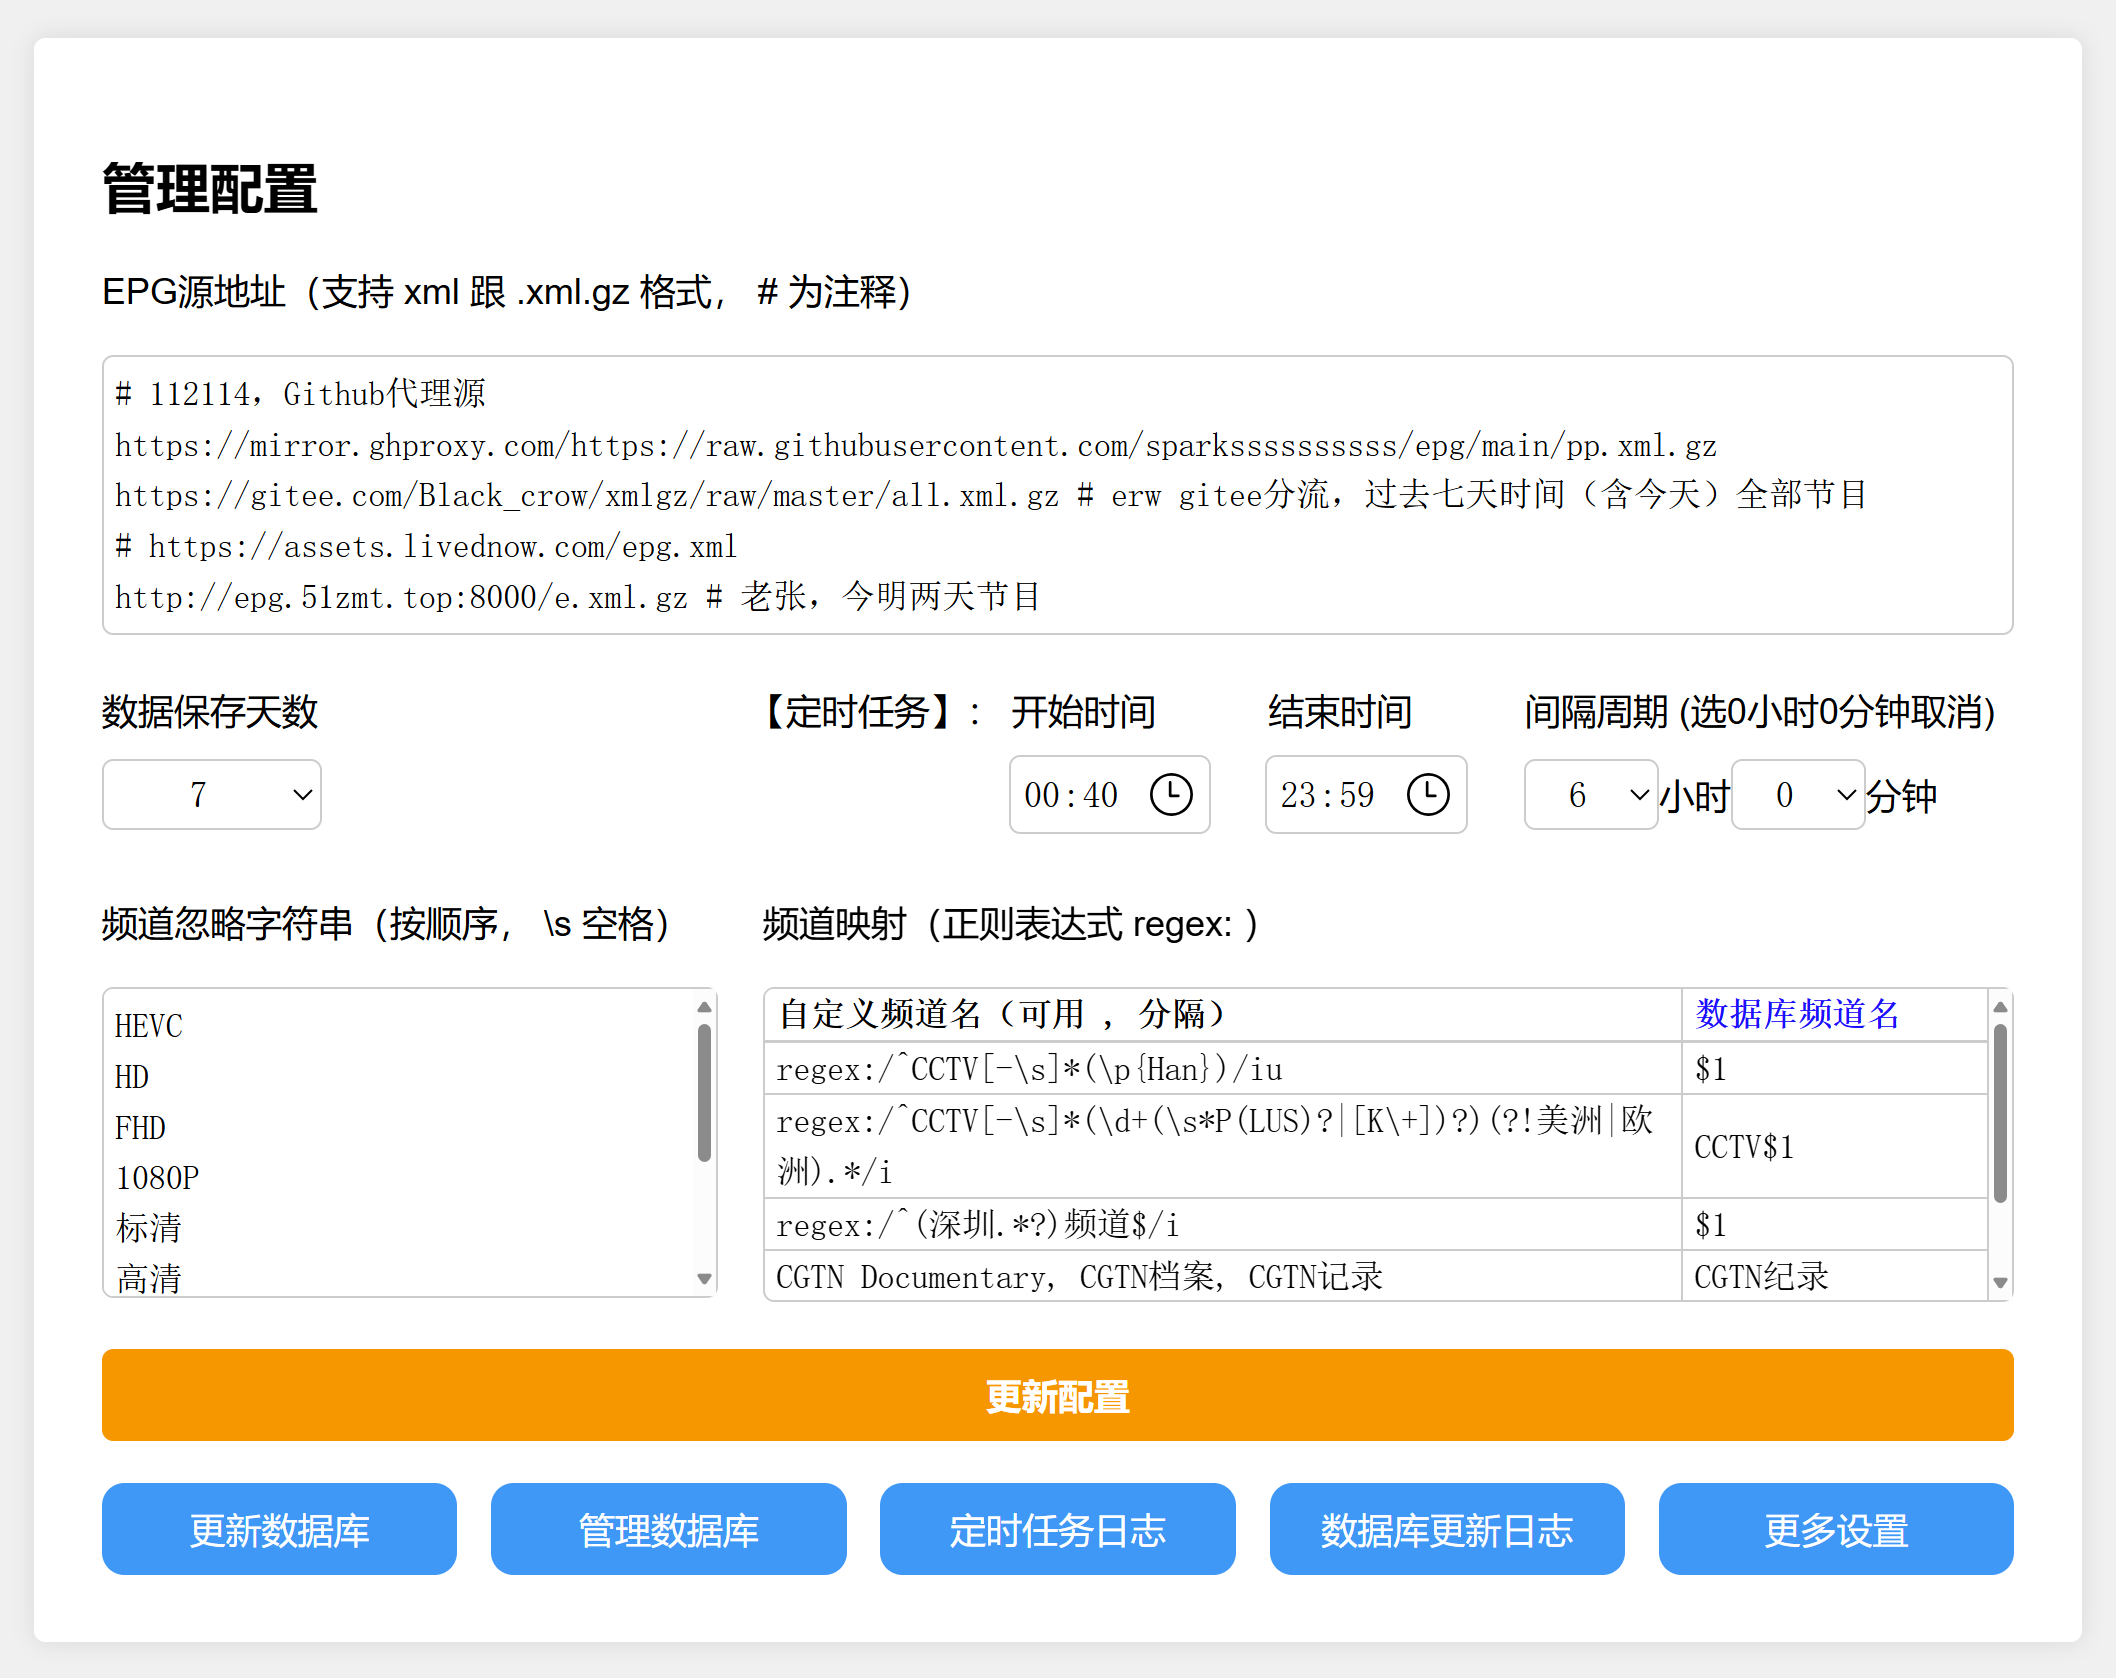
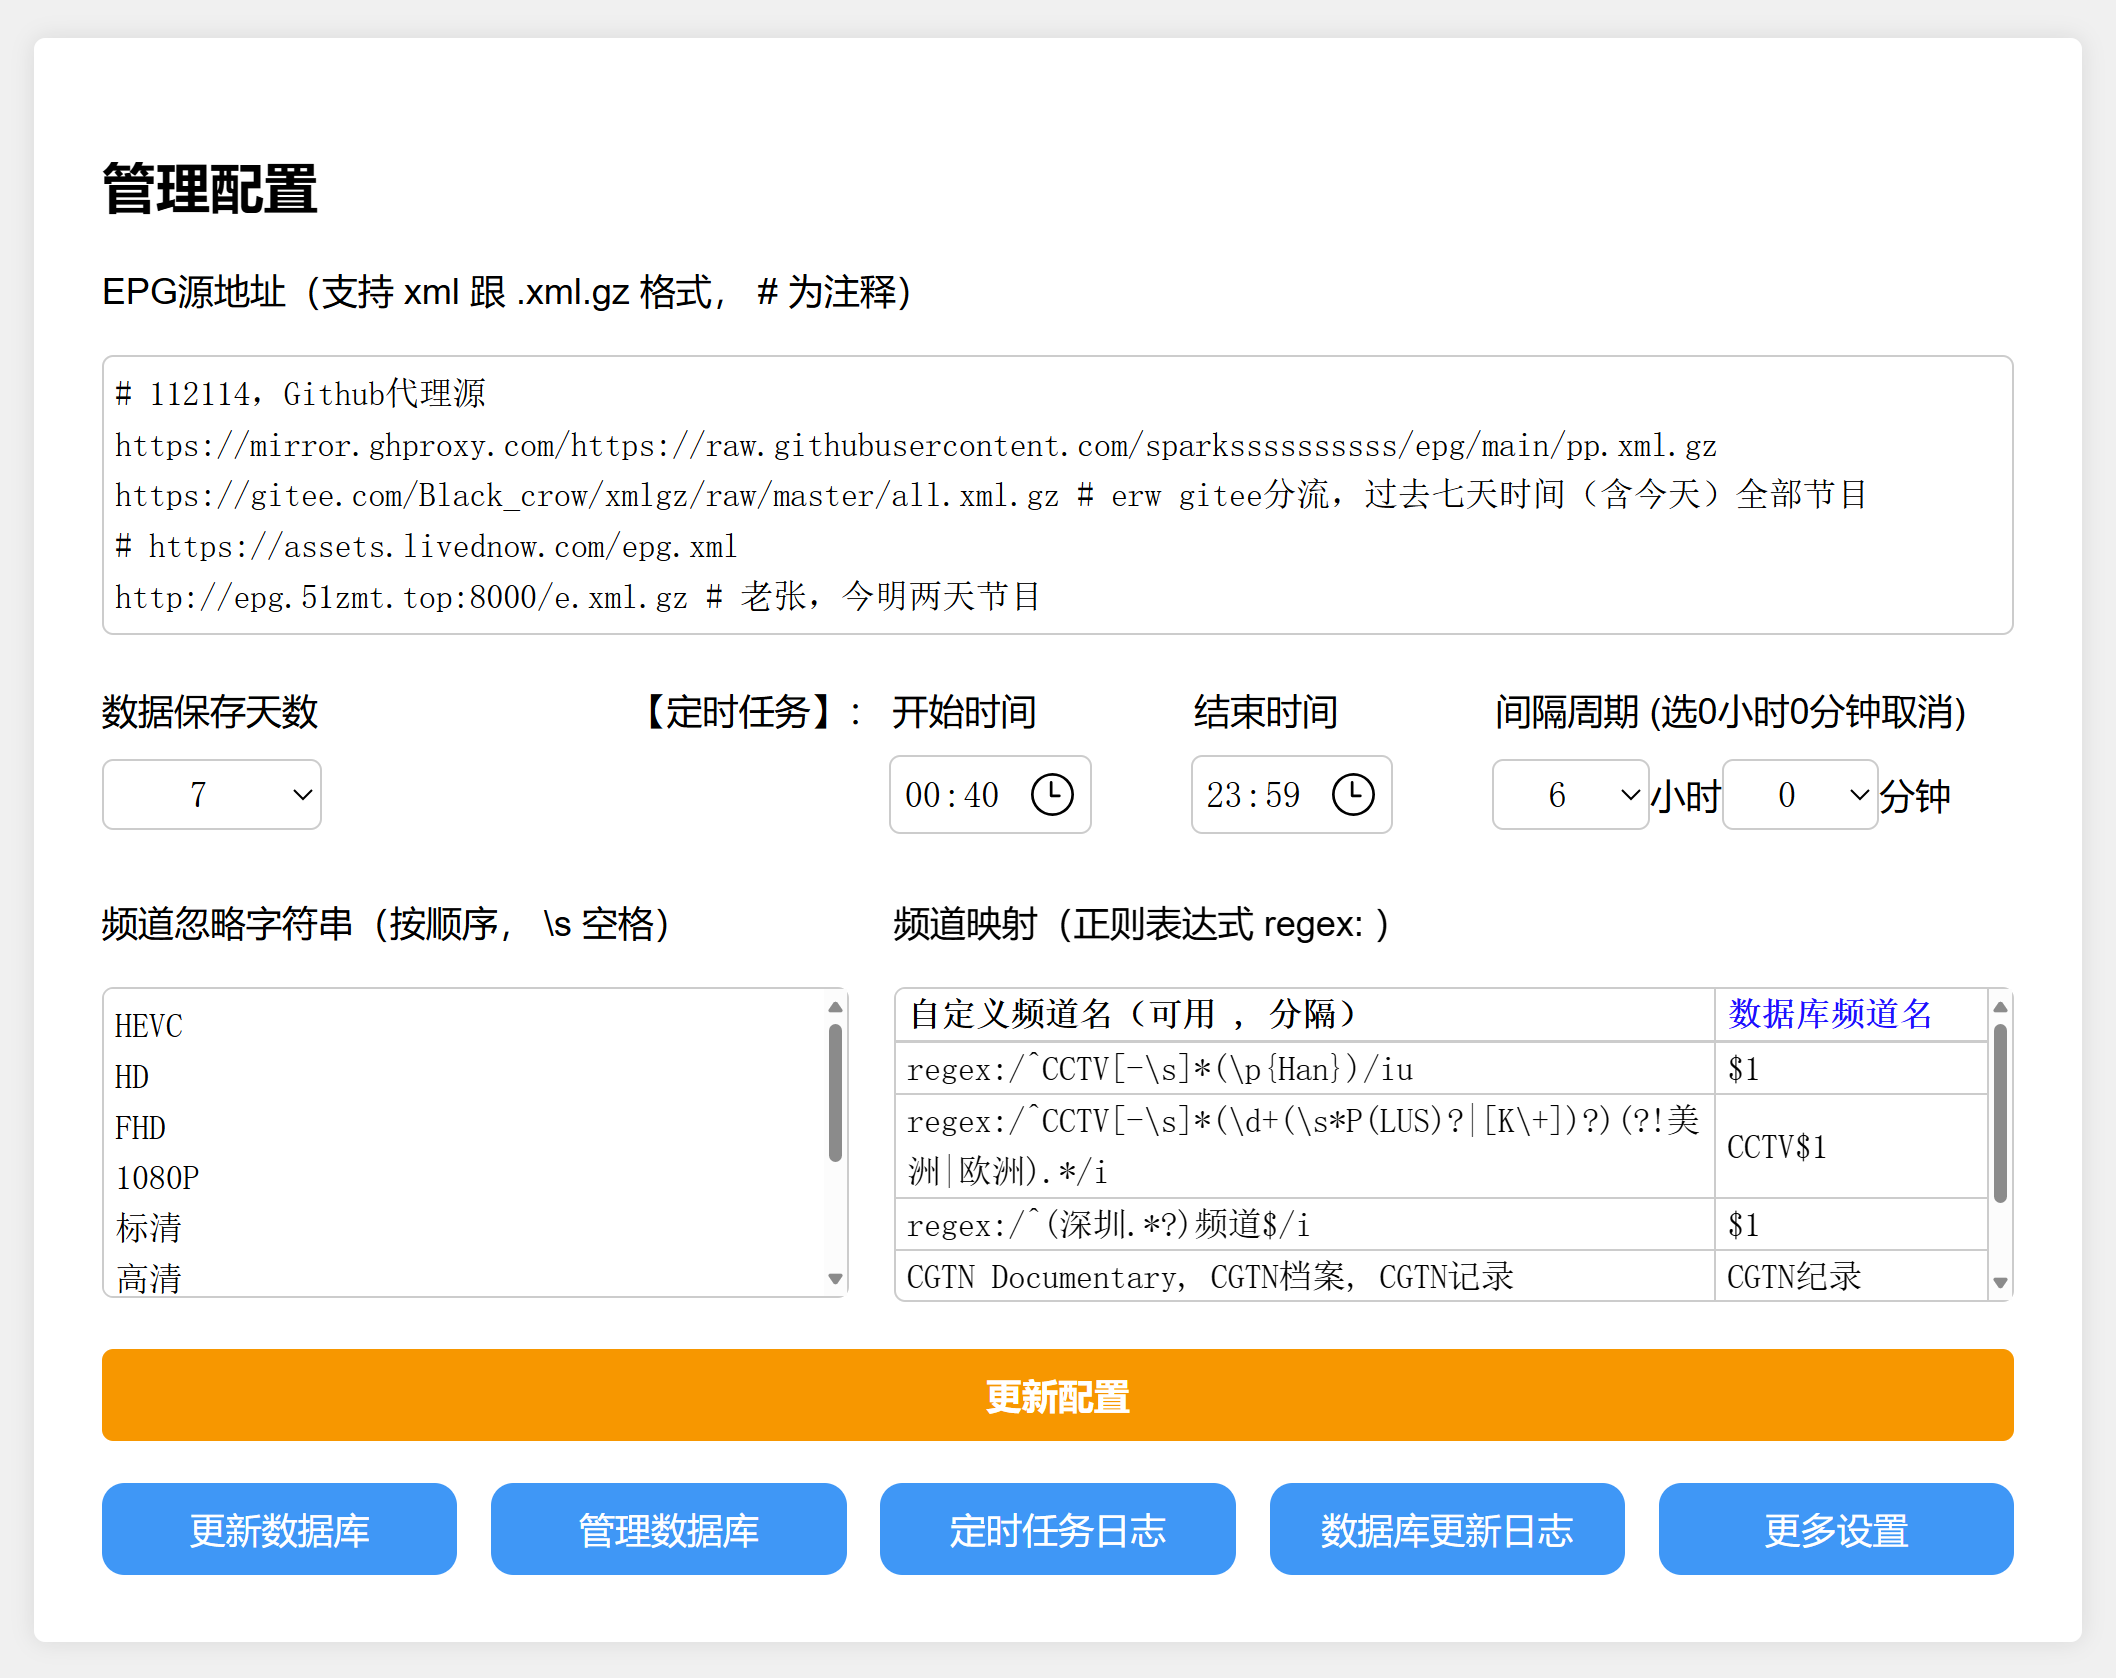
调整布局

diff --git a/epg/css/manage.css b/epg/css/manage.css
@@ -40,13 +40,11 @@ textarea[id="cronLogContent"], textarea[id="channelList"] {
     width: 98px;
 }
 .custom-margin1 {
-    margin-left: 190px;
+    margin-left: 137px;
 }
-.custom-margin2 {
-    margin-left: 50px;
-}
+.custom-margin2,
 .custom-margin3 {
-    margin-left: 50px;
+    margin-left: 70px;
 }
 .form-row select, 
 .modal-content select {
@@ -69,18 +67,16 @@ textarea[id="cronLogContent"], textarea[id="channelList"] {
     width: 90px;
 }
 .form-row input[id="start_time"] {
-    margin-left: 217px;
+    margin-left: 164px;
 }
-.form-row input[id="end_time"] {
-    margin-left: 24px;
+.form-row input[id="end_time"],
+select[id="interval_hour"]{
+    margin-left: 44px;
 }
 .form-row select[id="interval_hour"], select[id="interval_minute"] {
-    width: 60px;
+    width: 70px;
     margin-right: 0px;
     text-align: center;
-}
-.form-row select[id="interval_hour"] {
-    margin-left: 25px;
 }
 input[type="submit"],
 .modal-content button {

diff --git a/epg/manage.php b/epg/manage.php
@@ -343,11 +343,11 @@ try {
         </div><br>
         
         <div class="flex-container">
-            <div class="flex-item" style="width: 33%;">
+            <div class="flex-item" style="width: 40%;">
                 <label for="channel_replacements">频道忽略字符串（按顺序， \s 空格）</label><br><br>
                 <textarea id="channel_replacements" name="channel_replacements" style="height: 138px;" required><?php echo implode("\n", array_map('trim', $Config['channel_replacements'])); ?></textarea><br><br>
             </div>
-            <div class="flex-item" style="width: 67%;">
+            <div class="flex-item" style="width: 60%;">
                 <label for="channel_mappings">频道映射（正则表达式 regex: ）</label><br><br>
                 <div class="table-wrapper">
                     <table id="channelMappingsTable">
